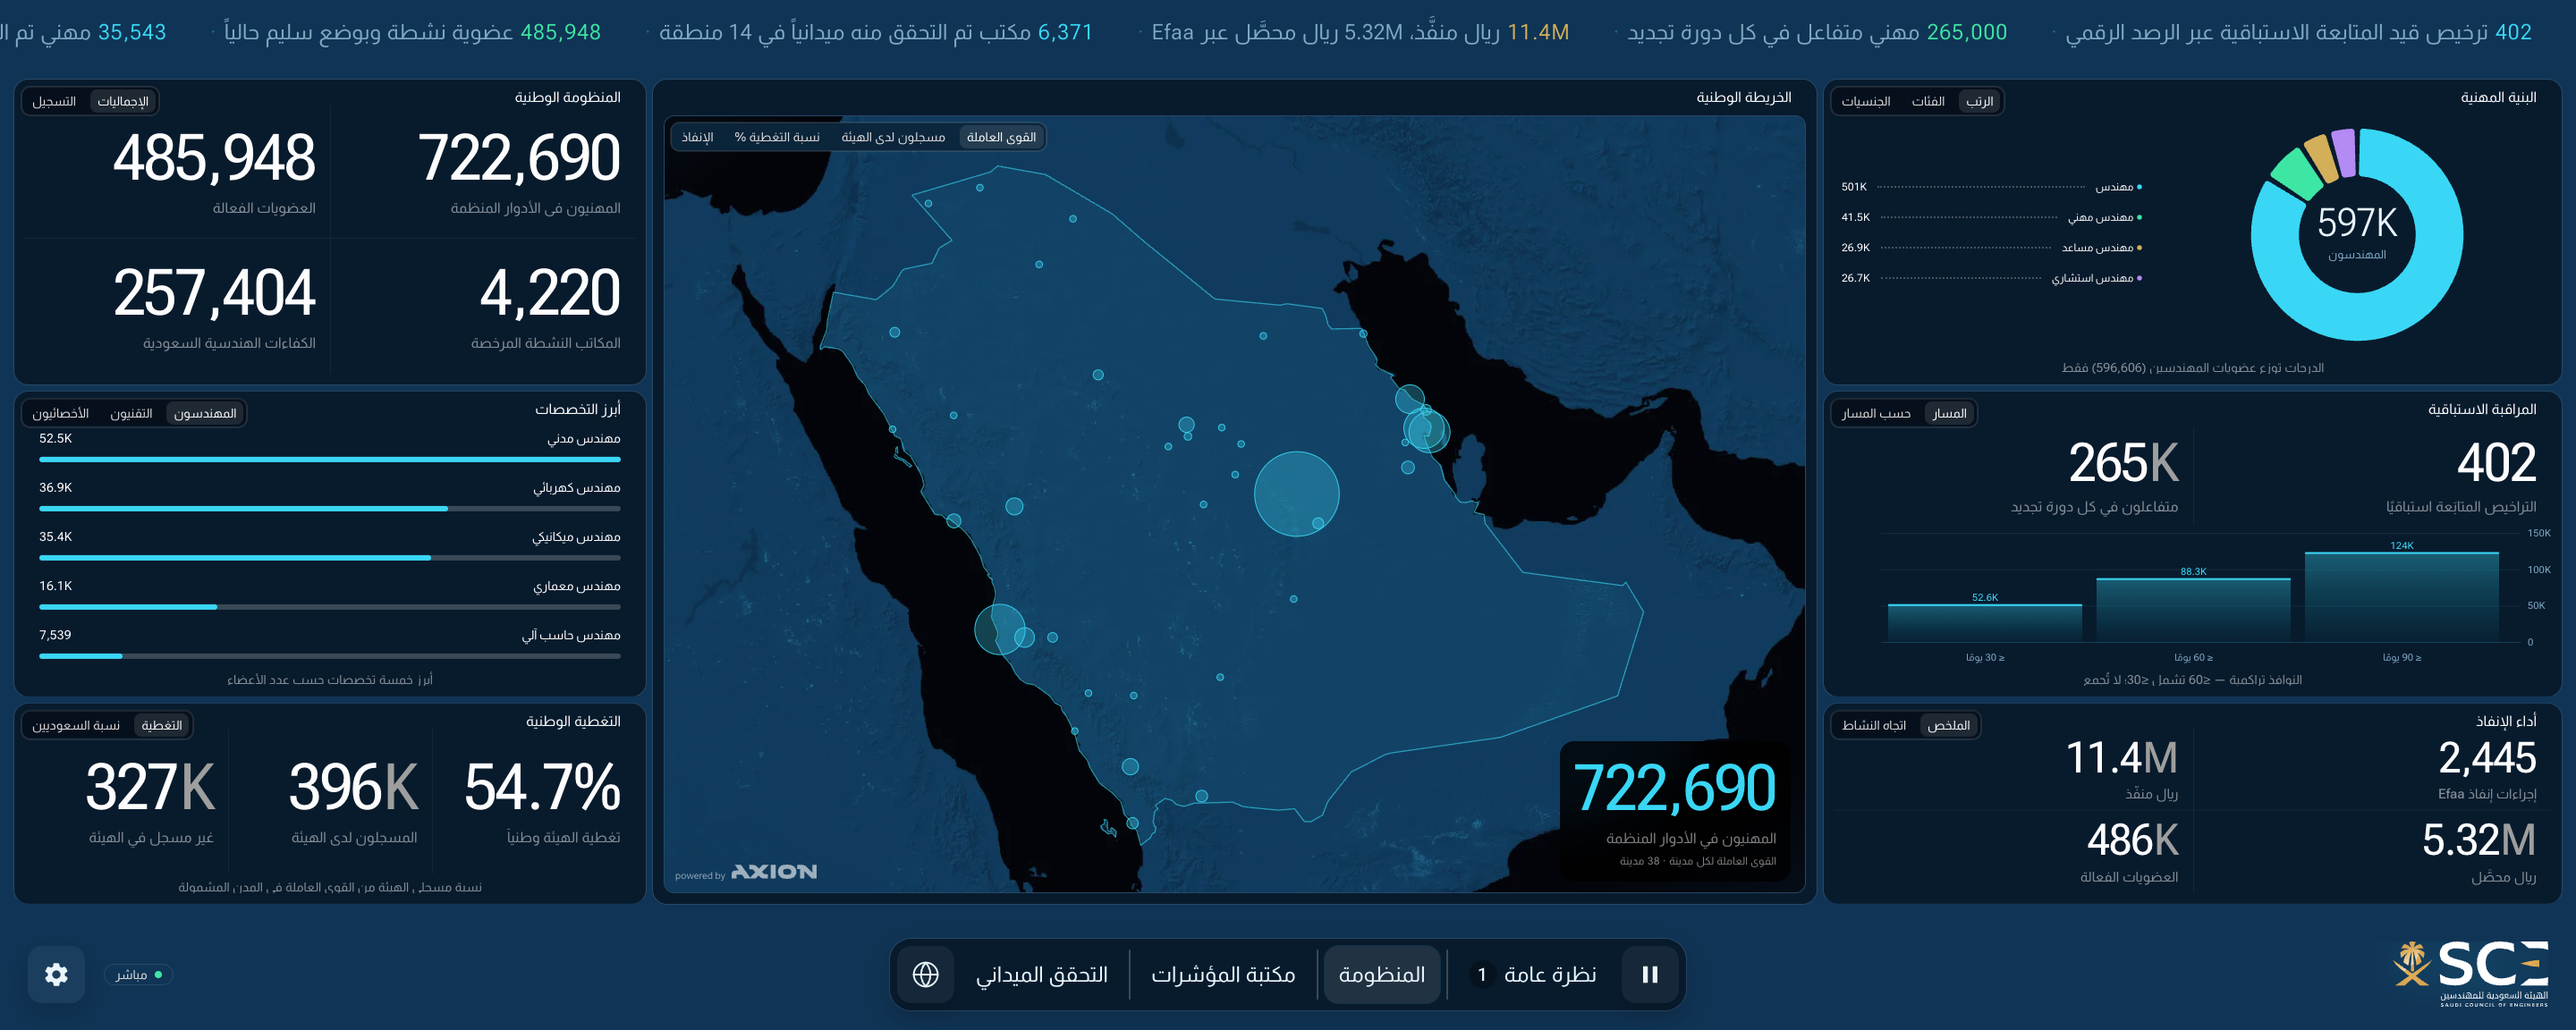
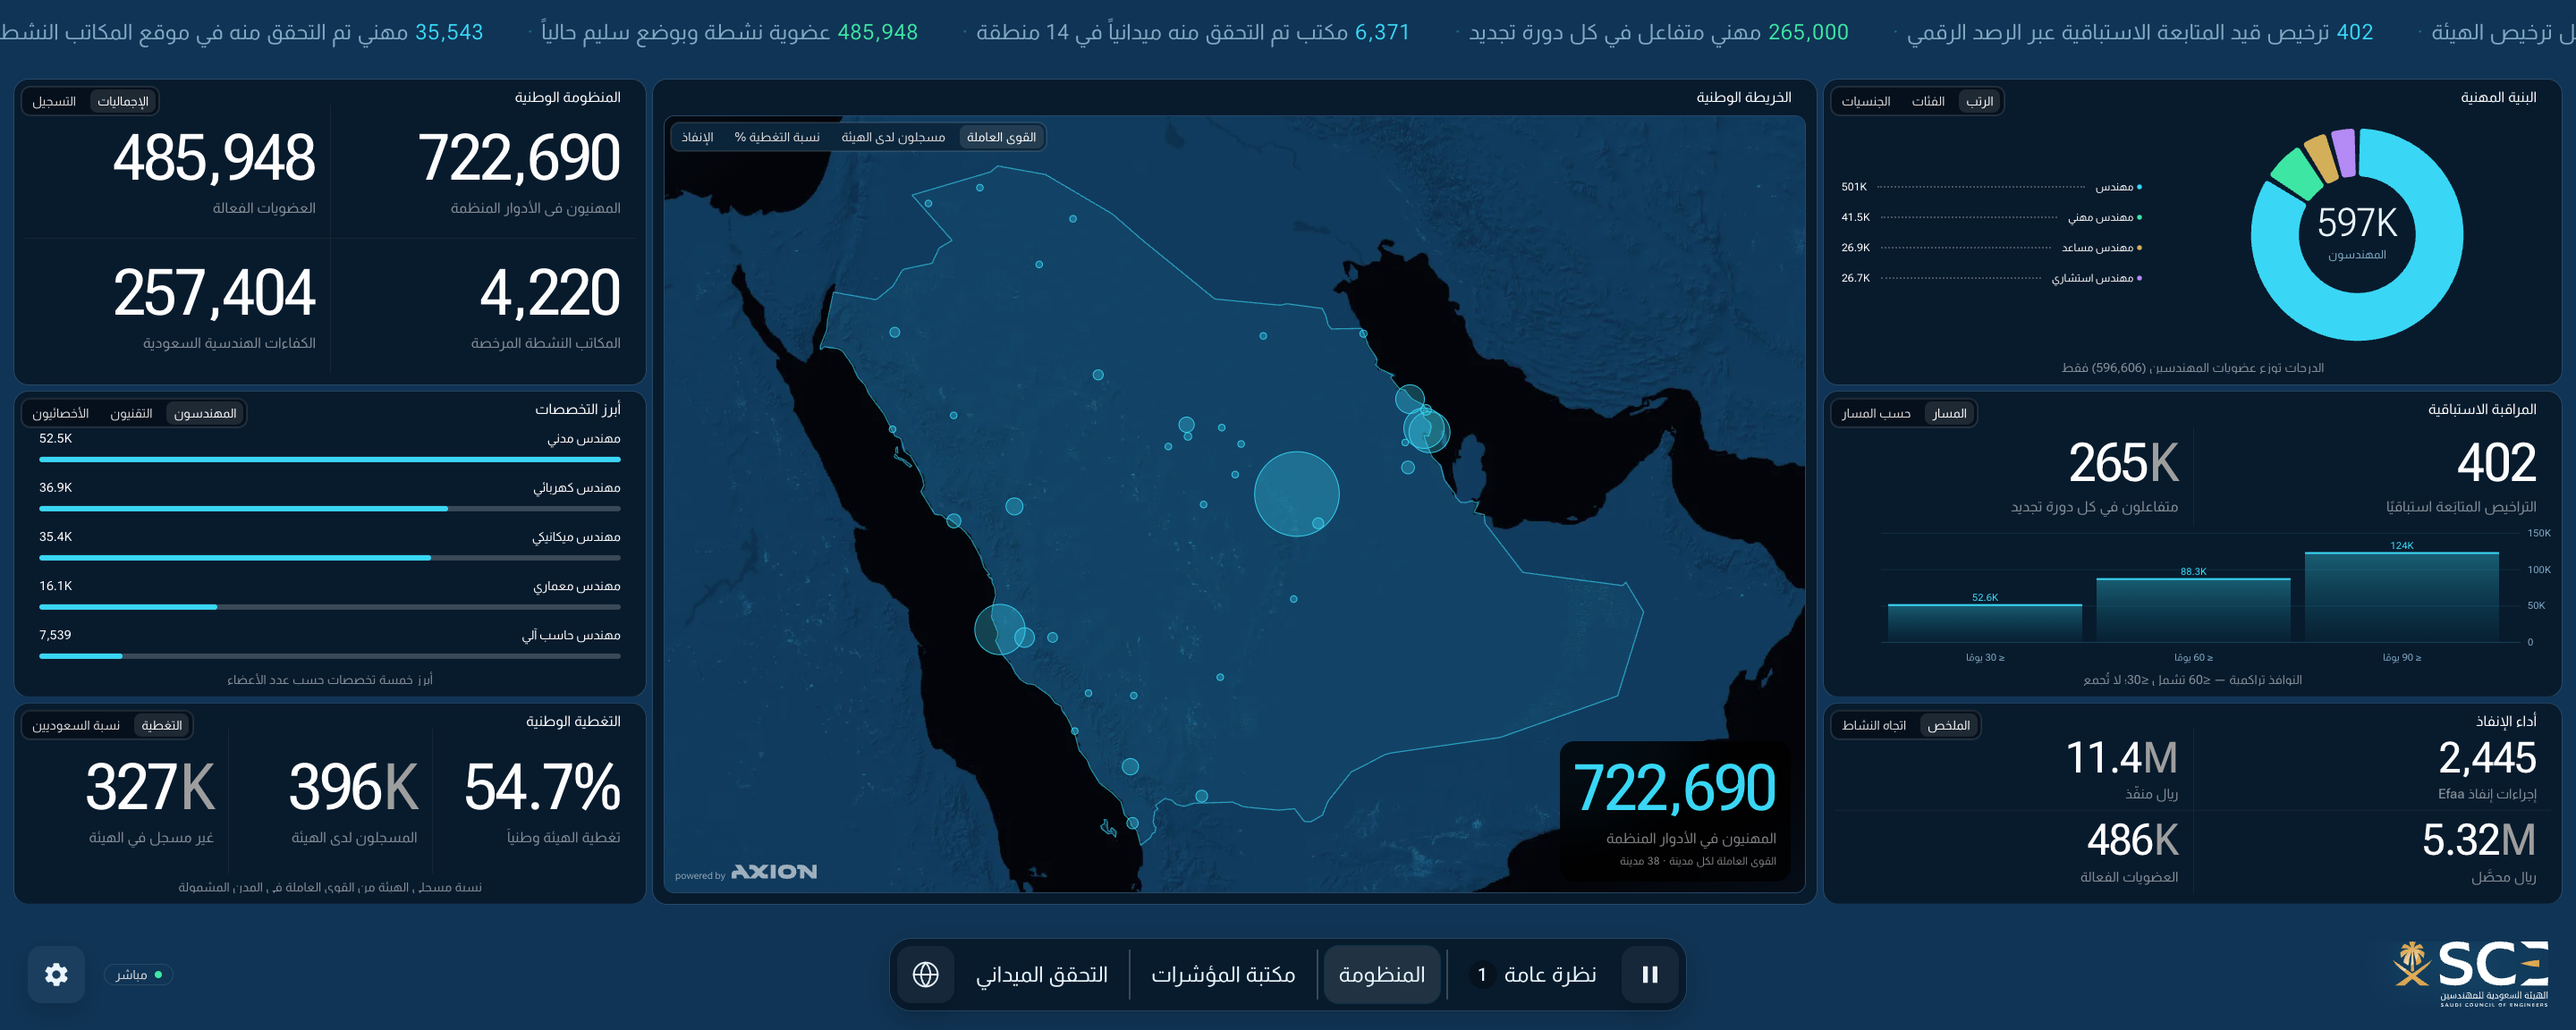
Drop the enforced/collected SAR line from the ticker
SCE asked for it off the strip (client review, 2026-08-30), in both locales.
The marquee is now ten facts and the credit.

The figures stay where they are read rather than skimmed: 11.4M enforced and
5.32M collected are still on the Enforcement delivery panel and in the KPI
Library's "Value enforced & collected" card. Only the ticker loses them, so
t.money stays in the message table — the two boards still render it.

Verified with tools/shoot.mjs at 2880x1152 in both locales (no overflow, no
clipping) and tools/audit-data.mjs (1378 values, 0 unaccounted). Reference
shots regenerated.

Changed region(s): [[0.0, 0.0, 1.0, 0.0625]]

diff --git a/app/assets/js/core/shell.js b/app/assets/js/core/shell.js
@@ -848,7 +848,10 @@
       ['g', Fmt.pct(Data.tuv.scecov), I18N.t('t.scecov')],
       ['b', Fmt.grouped(Data.head.proact), I18N.t('t.proact')],
       ['g', Fmt.grouped(Data.head.renewengage), I18N.t('t.engage')],
-      ['y', Fmt.sar(Data.head.enforced), I18N.t('t.money', { n: Fmt.sar(Data.head.collected) })],
+      /* The enforced/collected SAR line was dropped from the strip at SCE's
+         request (client review, 2026-08-30). The figures themselves stay on
+         Enforcement delivery and in the KPI Library; only the marquee loses
+         them. `t.money` is kept in the message table for those. */
       ['b', Fmt.grouped(Data.tuv.surveyed), I18N.t('t.surveyed', { n: Data.tuv.regions })],
       ['g', Fmt.grouped(Data.register.active), I18N.t('t.active')],
       ['b', Fmt.grouped(Data.tuv.workers), I18N.t('t.workers')],
